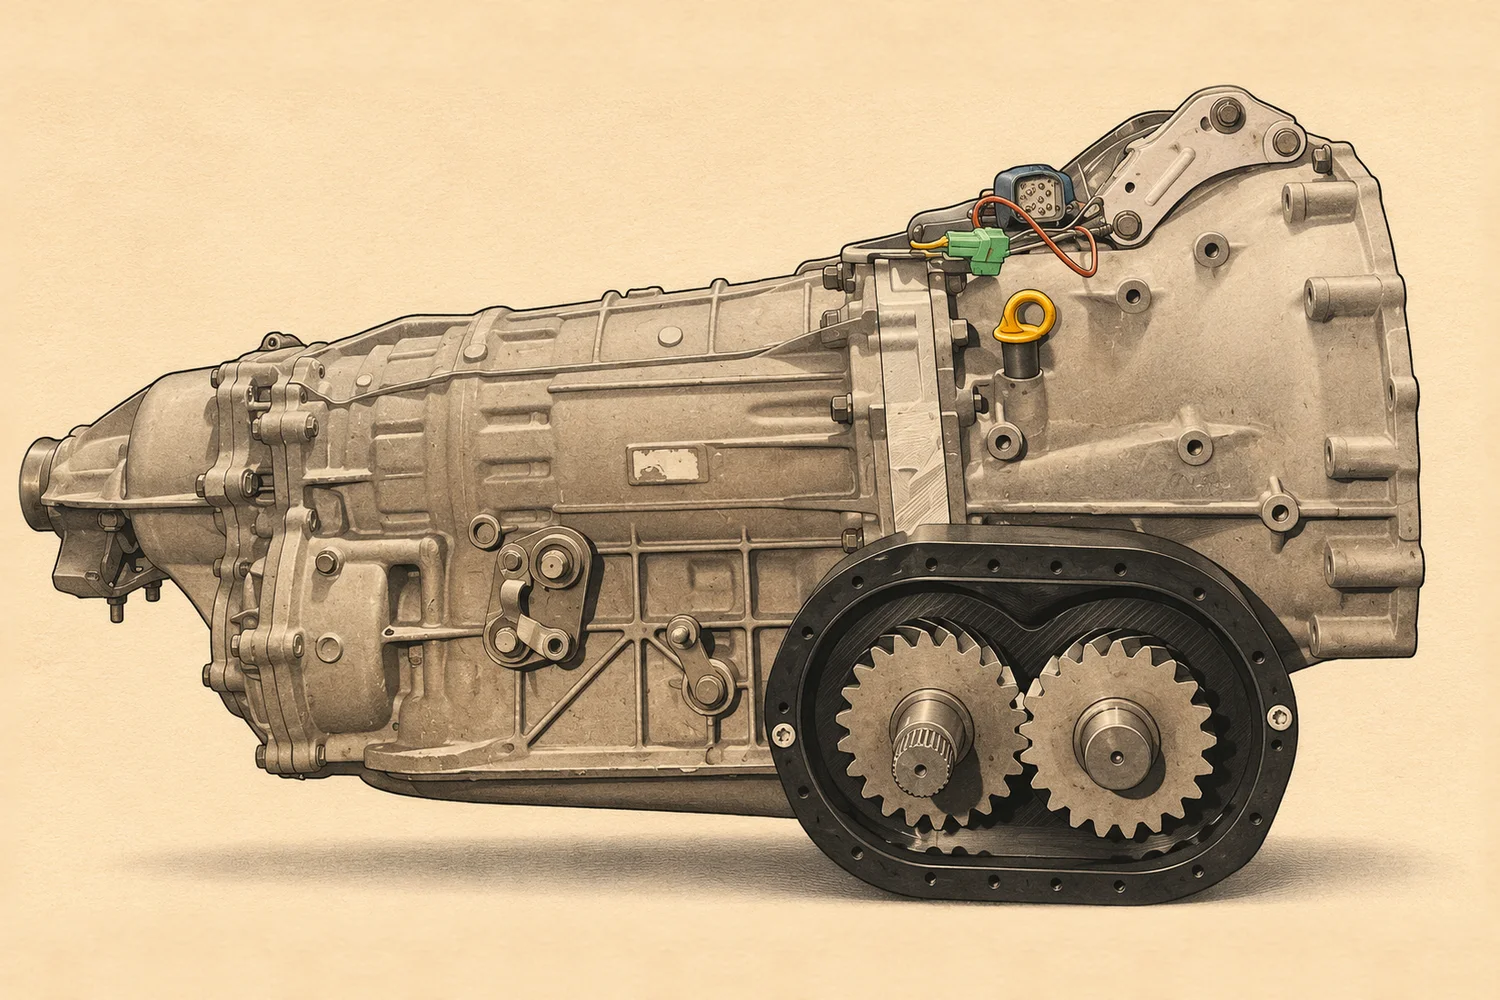
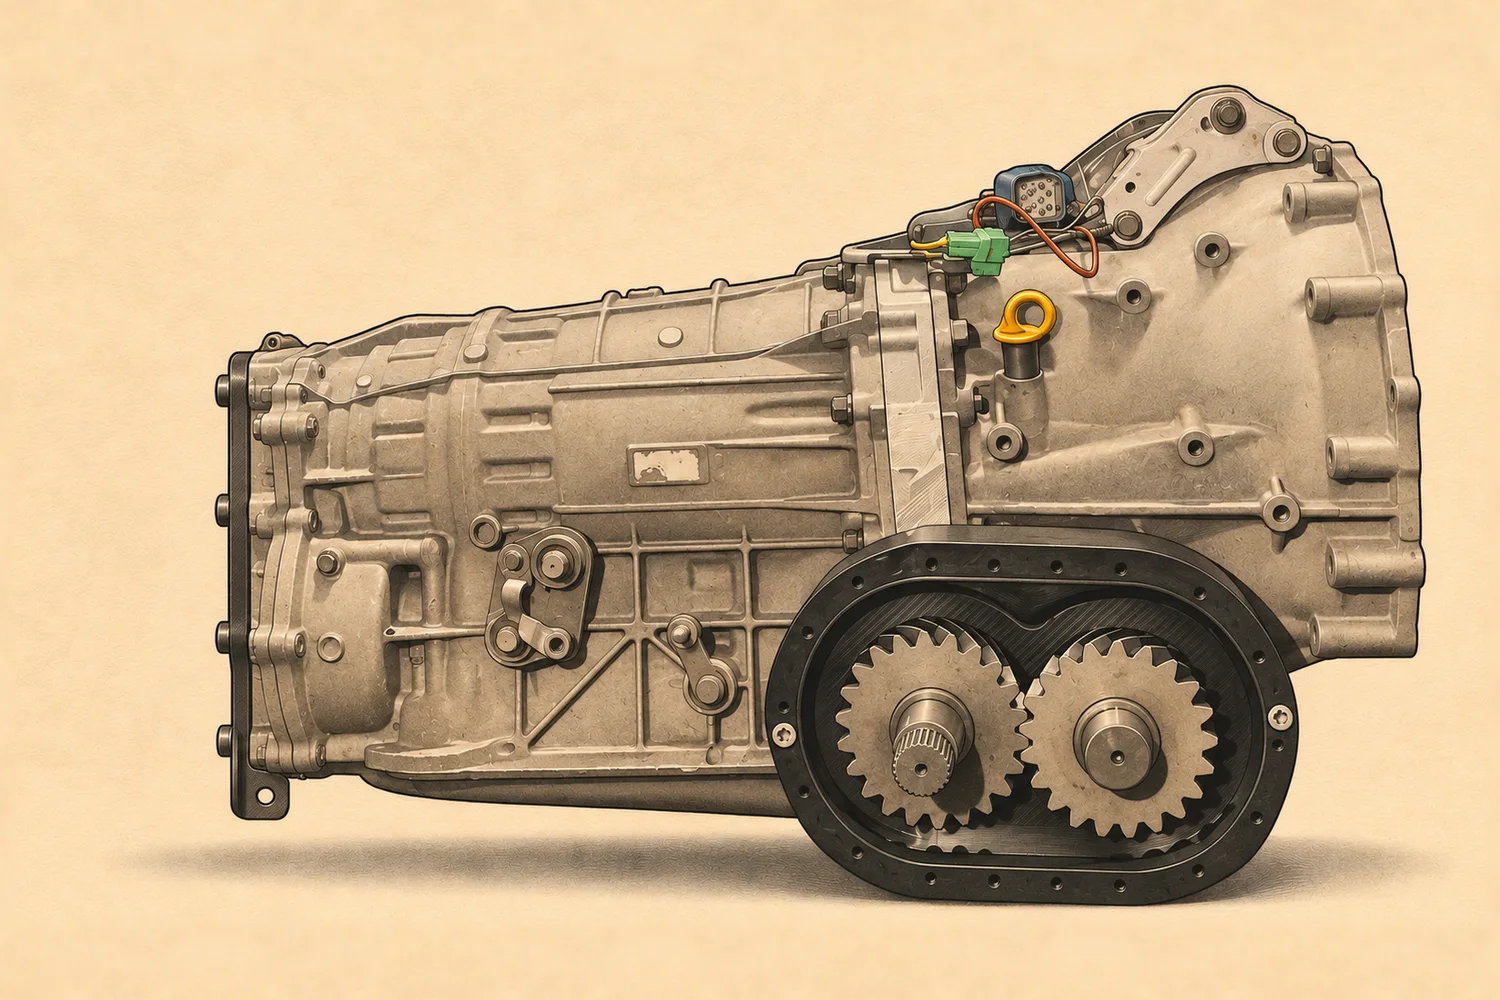
Gearbox plate: flat end plate replaces the AWD nose cone

diff --git a/index.html b/index.html
@@ -347,10 +347,11 @@ footer .ig{color:var(--cyan);font-weight:800;text-decoration:none;letter-spacing
       <ul class="specs">
         <li>4EAT four-speed automatic or 5MT five-speed manual</li>
         <li>RGB at 1:1 or 1.19, so a 4.11 final drive stays 4.11 or becomes 4.89</li>
+        <li>Flat end plate replaces the AWD nose cone</li>
       </ul>
       <a class="tkask" href="gear-calculator/" target="_blank" rel="noopener">Try your setup in the Bus Gear Calc →</a>
     </div>
-    <div class="media plate rise"><img width="1500" height="1000" src="img/kit-gearbox.webp" alt="Vintage service manual style drawing of a Subaru automatic gearbox from the side, with the reduction gearbox cover off to show its two gears" loading="lazy"></div>
+    <div class="media plate rise"><img width="1500" height="1000" src="img/kit-gearbox.webp" alt="Vintage service manual style drawing of a Subaru automatic gearbox from the side, with a flat black end plate in place of the nose cone and the reduction gearbox cover off to show its two gears" loading="lazy"></div>
   </div>
 </section>
 </div>
